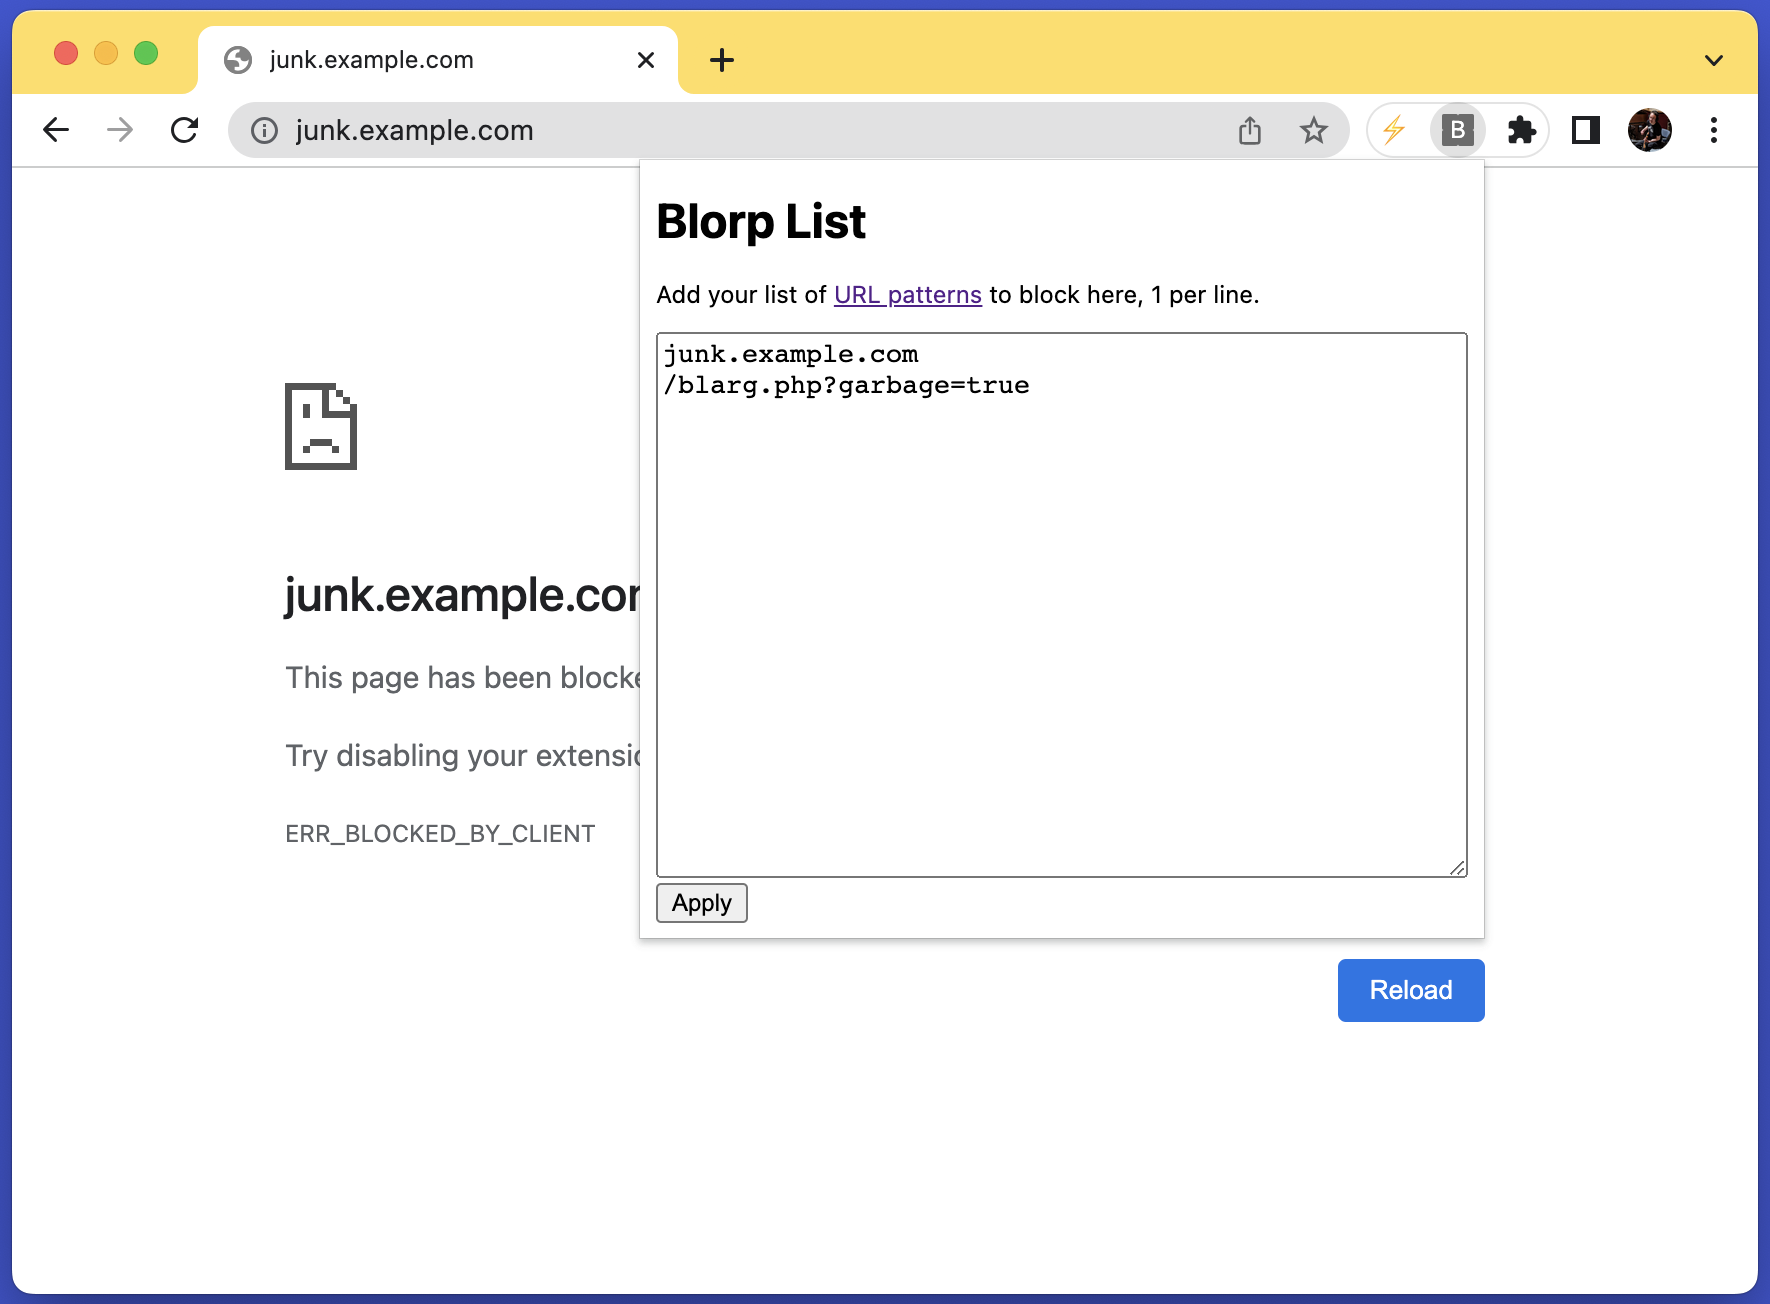
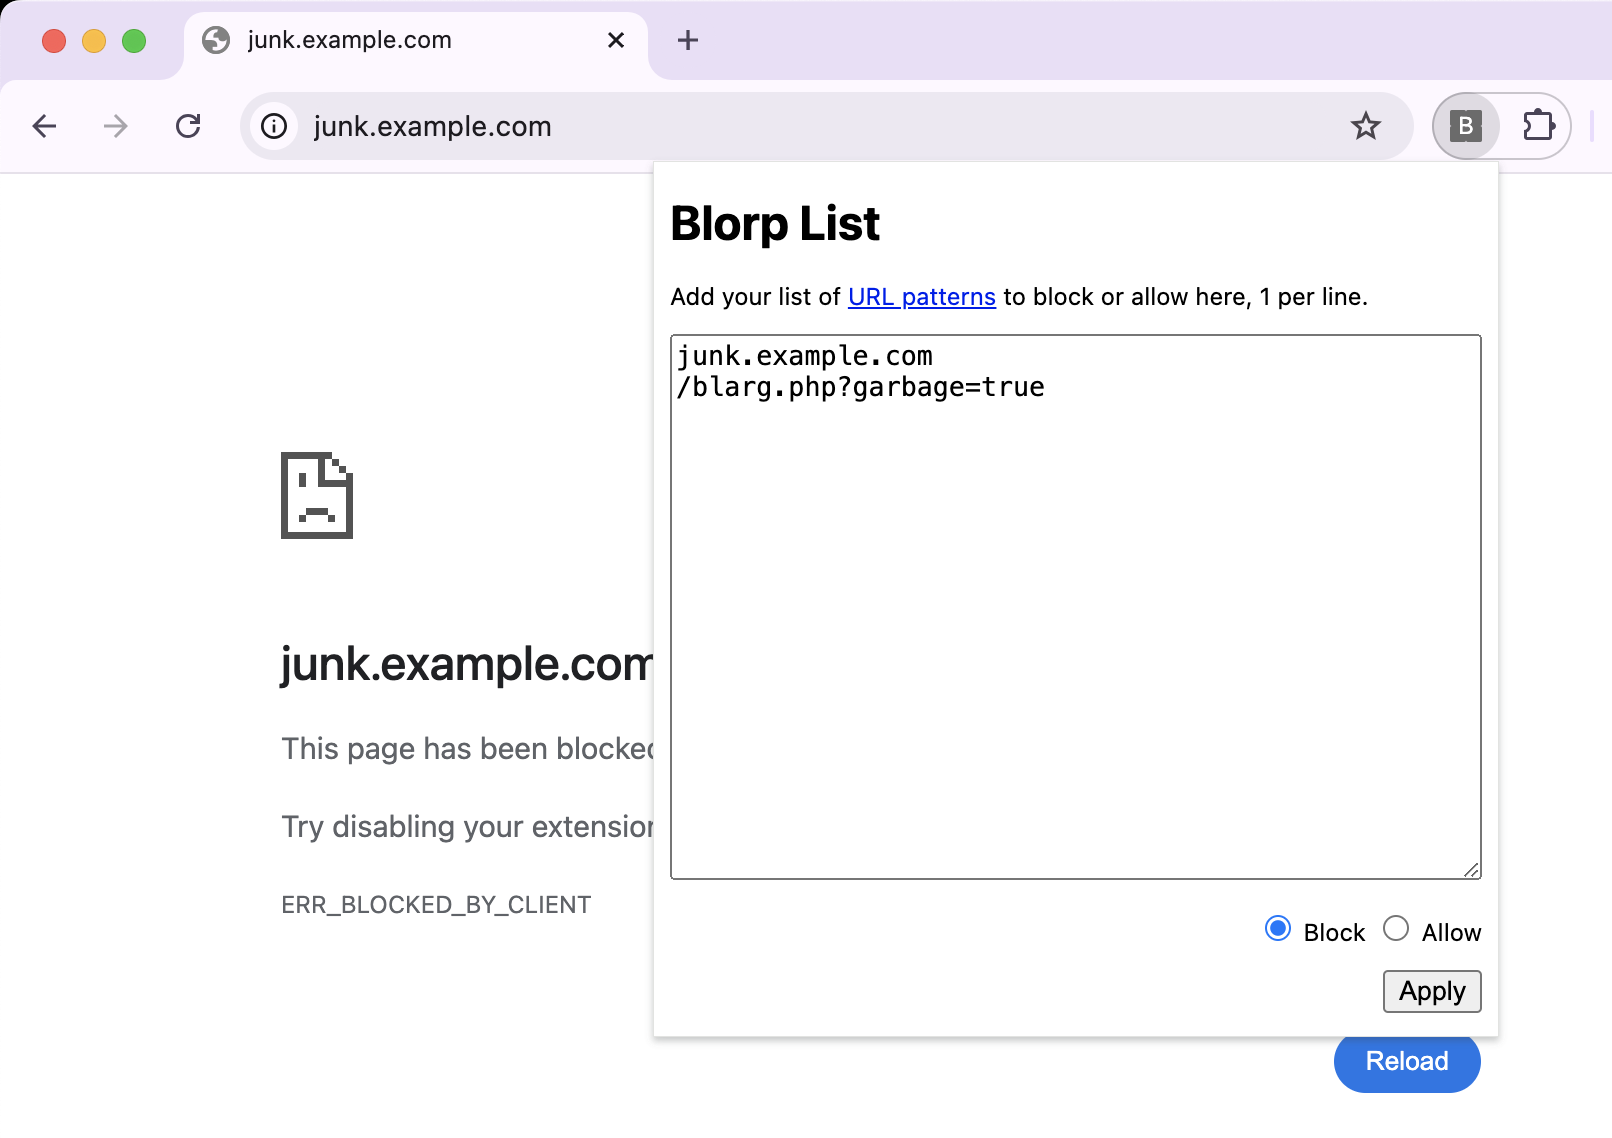
Add Block/Allow toggle
Now it can be an exclusive-allow list, too.

diff --git a/popup.js b/popup.js
@@ -3,39 +3,54 @@
 
 "use strict";
 
-const log = function() {
+const log = function () {
   errorsDiv.innerText = Array.from(arguments).join(" ")
   console.log(...arguments)
 }
 
+const resourceTypes = [
+  "main_frame",
+  "sub_frame",
+  "stylesheet",
+  "script",
+  "image",
+  "font",
+  "object",
+  "xmlhttprequest",
+  "ping",
+  "csp_report",
+  "media",
+  "websocket",
+  "other"
+]
+
 const removeRuleIds = [...Array(chrome.declarativeNetRequest.MAX_NUMBER_OF_DYNAMIC_AND_SESSION_RULES).keys()].map(x => x + 1)
 
-export const applyBlorpList = async function() {
+export const applyBlorpList = async function (block) {
   const options = { addRules: [], removeRuleIds: removeRuleIds }
   const patterns = localStorage.getItem("blorpList").split(/[\r\n]+/).map(p => p.trim()).filter(p => p.length > 0)
-  for (let i = 0; i < patterns.length; i++) {
+  let i = 0
+  for (; i < patterns.length; i++) {
     const pattern = patterns[i]
+    options.addRules.push({
+      id: i + 1,
+      priority: 1,
+      action: { type: block ? "block" : "allow" },
+      condition: {
+        resourceTypes: resourceTypes,
+        urlFilter: pattern,
+        isUrlFilterCaseSensitive: false,
+      }
+    })
+  }
+  if (!block) {
     options.addRules.push({
       id: i + 1,
       priority: 1,
       action: { type: "block" },
       condition: {
-        resourceTypes: [
-          "main_frame",
-          "sub_frame",
-          "stylesheet",
-          "script",
-          "image",
-          "font",
-          "object",
-          "xmlhttprequest",
-          "ping",
-          "csp_report",
-          "media",
-          "websocket",
-          "other"
-        ],
-        urlFilter: pattern,
+        resourceTypes: resourceTypes,
+        urlFilter: "*://*",
         isUrlFilterCaseSensitive: false,
       }
     })
@@ -44,12 +59,16 @@ export const applyBlorpList = async function() {
   log("Loaded", options.addRules.length, "rules")
 }
 
-const onApplyButtonClick = async function(event) {
+const onApplyButtonClick = async function (event) {
   localStorage.setItem("blorpList", blorpList.value)
-  await applyBlorpList()
+  localStorage.setItem("listType", listTypeBlock.checked ? "block" : "allow")
+  await applyBlorpList(listTypeBlock.checked)
 }
 
-document.body.onload = async function(event) {
+document.body.onload = async function (event) {
   blorpList.value = localStorage.getItem("blorpList")
+  let listType = localStorage.getItem("listType")
+  listTypeBlock.checked = listType !== "allow"
+  listTypeAllow.checked = listType === "allow"
   applyButton.addEventListener("click", onApplyButtonClick)
 }

diff --git a/popup.html b/popup.html
@@ -6,16 +6,26 @@ SPDX-License-Identifier: Apache-2.0
 <html lang=en-us>
 <meta charset=utf-8>
 <meta name=viewport content="width=device-width,initial-scale=1">
-<link rel="stylesheet" href="popup.css"/>
+<link rel="stylesheet" href="popup.css" />
 <title>Blorp</title>
 
 <h1>Blorp List</h1>
 
 <p>Add your list of <a
-href="https://developer.chrome.com/docs/extensions/mv3/match_patterns/"
-target="_new">URL patterns</a> to block here, 1 per line.</p>
+        href="https://developer.chrome.com/docs/extensions/mv3/match_patterns/"
+        target="_new">URL patterns</a> to block or allow here, 1 per line.</p>
 
 <textarea id="blorpList"></textarea>
-<div><input type="button" id="applyButton" value="Apply"/></div>
+<div id="buttonsDiv">
+    <p>
+        <input type="radio" id="listTypeBlock" name="listType" checked />
+        <label for="listTypeBlock">Block</label>
+        <input type="radio" id="listTypeAllow" name="listType" />
+        <label for="listTypeAllow">Allow</label>
+    </p>
+    <p>
+        <input type="button" id="applyButton" value="Apply" />
+    </p>
+</div>
 <div id="errorsDiv"></div>
 <script type="module" src="popup.js"></script>

diff --git a/popup.css b/popup.css
@@ -3,9 +3,6 @@ textarea {
   height: 20em;
 }
 
-input {
-  font-size: 120%;
-  margin-right: 0;
-  margin-left: auto;
-  display: block;
+#buttonsDiv {
+  text-align: right;
 }

diff --git a/README.md b/README.md
@@ -1,16 +1,18 @@
 # Blorp
 
 Blorp is the simplest possible content blocker for browsers that use the
-Chromium extension API. It blocks the loading of URLs that match any of a list
-of patterns that you provide. Blorp’s simplicity makes it efficient and safe.
+Chromium extension API. At your choice, it blocks the loading of URLs that match
+any of a list of patterns that you provide, or it allows **only** loading
+matching URLs. Blorp’s simplicity makes it efficient and safe.
 
-## Blocking URLs
+## Blocking And Allowing URLs
 
 ![Screenshot of using the Blorp pop-up](screenshot.png)
 
-Click on the Blorp **B** icon in Chrome’s toolbar. This will raise the **Blorp
-List** pop-up page. Add `urlFilter`s, 1 per line, that describe URLs you would
-like to block. Then click **Apply**.
+Click on the puzzle piece icon in Chrome’s toolbar, and then on the Blorp **B**
+icon in the pop-up that appears. This will raise the **Blorp List**
+configuration pop-up. Add `urlFilter`s, 1 per line, that describe URLs you would
+like to block. Select either **Block** or **Allow**, and click **Apply**.
 
 The simplest approach is to give a list of strings, such as domain names or
 parts of URLs like paths or query strings. If the string occurs anywhere in a
@@ -21,6 +23,8 @@ Fancier pattern-matching is possible. For the full details on the syntax of
 documentation](https://developer.chrome.com/docs/extensions/reference/declarativeNetRequest/).
 
 ## Where To Get Lists Of Patterns?
+
+To create an allow list, just add the sites you like.
 
 Lots of people publish open source URL block lists that you can use.
 
